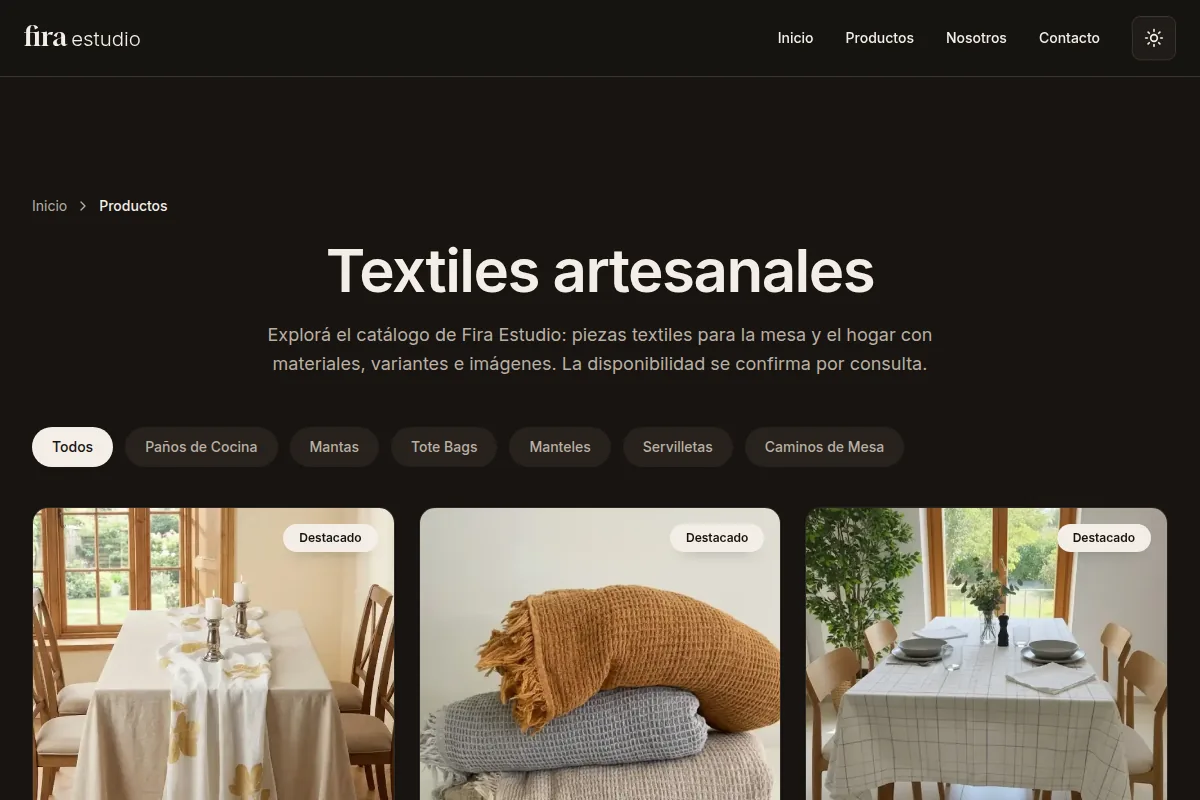
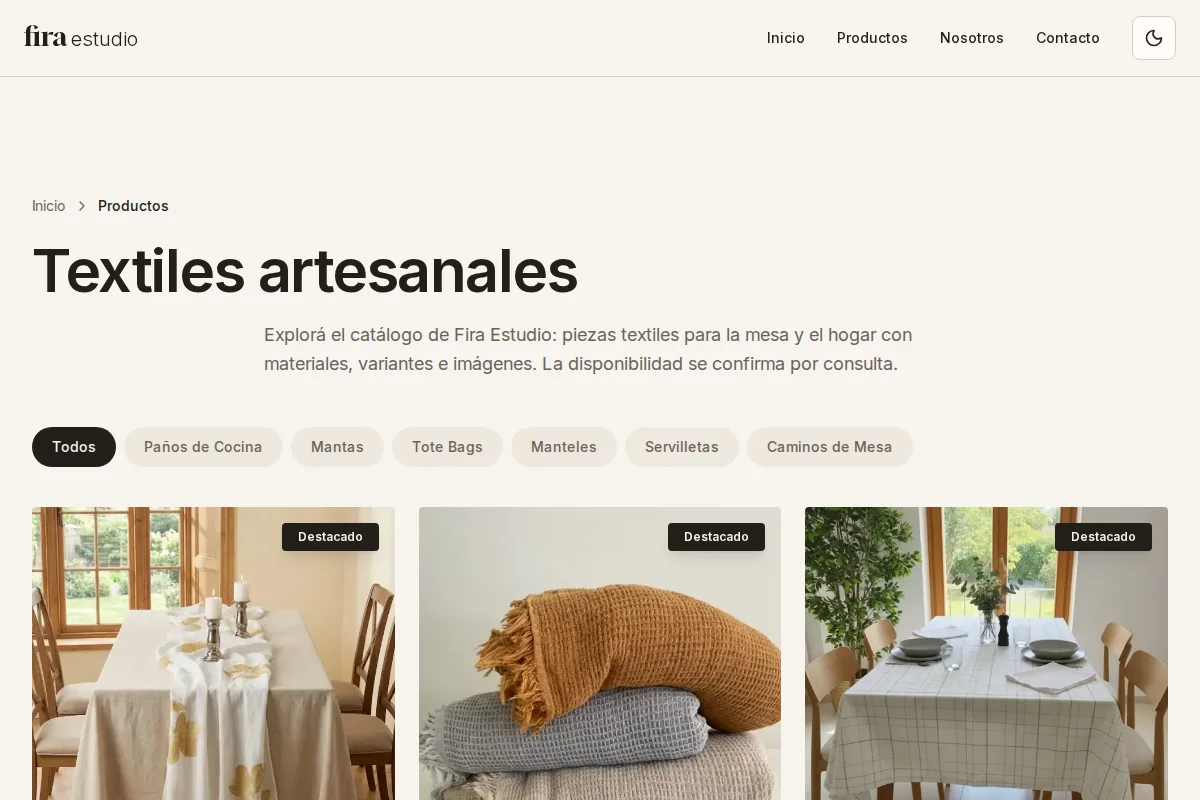
Update Fira portfolio screenshots

diff --git a/src/pages/proyectos/fira-estudio.md b/src/pages/proyectos/fira-estudio.md
@@ -46,6 +46,28 @@ Replanteamos el producto como una vidriera digital. El sitio vigente conserva ca
   <figcaption>Catálogo productivo: categorías y presentación de productos, con disponibilidad gestionada mediante consulta.</figcaption>
 </figure>
 
+<figure class="case-figure wide">
+  <img
+    src="/case-studies/fira/home-cover-2026-09-27.webp"
+    alt="Portada rediseñada de Fira Estudio con una fotografía textil y acceso al catálogo."
+    width="1200"
+    height="800"
+    loading="lazy"
+    decoding="async"
+  />
+</figure>
+
+<figure class="case-figure wide">
+  <img
+    src="/case-studies/fira/product-detail-2026-09-27.webp"
+    alt="Ficha de Camino de Mesa Magnolia con fotografía, descripción, material y cuidados."
+    width="1200"
+    height="800"
+    loading="lazy"
+    decoding="async"
+  />
+</figure>
+
 ## Mi aporte
 
 Diseñé e implementé la experiencia, la estructura del catálogo, el flujo de compra original, la integración de pagos, la navegación responsive, accesibilidad, metadata, SEO y pruebas unitarias y E2E.

diff --git a/src/pages/en/projects/fira-estudio.md b/src/pages/en/projects/fira-estudio.md
@@ -46,6 +46,28 @@ We reframed the product as a digital showcase. The current site retains the cata
   <figcaption>Production catalog: categories and product presentation, with availability handled through inquiry.</figcaption>
 </figure>
 
+<figure class="case-figure wide">
+  <img
+    src="/case-studies/fira/home-cover-2026-09-27.webp"
+    alt="Redesigned Fira Estudio homepage with a textile photograph and catalog link."
+    width="1200"
+    height="800"
+    loading="lazy"
+    decoding="async"
+  />
+</figure>
+
+<figure class="case-figure wide">
+  <img
+    src="/case-studies/fira/product-detail-2026-09-27.webp"
+    alt="Camino de Mesa Magnolia product page with photography, description, material, and care details."
+    width="1200"
+    height="800"
+    loading="lazy"
+    decoding="async"
+  />
+</figure>
+
 ## My contribution
 
 I designed and implemented the experience, catalog structure, original purchasing flow, payment integration, responsive navigation, accessibility, metadata, SEO, and unit and E2E tests.
